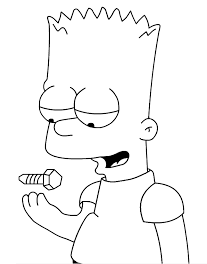
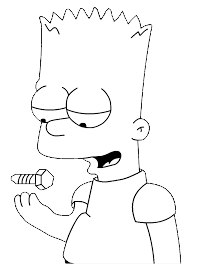
changes

Changed region(s): [[0.0302, 0.0, 0.9347, 1.0], [0.7839, 0.697, 0.8744, 0.7576]]

diff --git a/index.html b/index.html
@@ -1,24 +1,29 @@
 <!doctype html>
-<html lang="en">
+<html>
 <head>
 	<meta charset="UTF-8">
 	<title>UI/UX developer</title>
 	<link href='https://fonts.googleapis.com/css?family=PT+Sans:400,700,400italic' rel='stylesheet' type='text/css'>
 	<link href="styles.css" rel="stylesheet">
 </head>
+
 <body>
 
 	<div class="container">
 
 		<h1 class="h1">Hello world</h1>
+
 		<p class="p"> My name is Kiril and I like to craft nice things with <b>HTML/CSS/JS</b>.</p>
 		<p class="p"> At the moment I work at Adform as front-end developer in <b>UX/UI team</b>.</p>
 
-		<p class="p"> If you want to work together on some interesting projects, do not hesitate to write <a href="mailto:kiril.abashkin@gmail.com">me</a>.</p>
+		<p class="p"> If you want to work together on some interesting projects, do not hesitate to <a href="mailto:kiril.abashkin@gmail.com">write</a> me.</p>
 
 		<p class="p"> You can check my <a href="portfolio/?full#first">portfolio</a>.</p>
 
 	</div>
+	
 	<div class="stoner"></div>
+
 </body>
+
 </html>

diff --git a/styles.css b/styles.css
@@ -11,16 +11,17 @@ body {
 	background-repeat: no-repeat;
 	background-position: bottom right;
 	overflow: hidden;
-}
+	background-color:#E45252;
+	}
 
 .container {
 	padding:10px 40px;
-	width:300px;
-	background: #fff;
+	width:350px;
+	color: #fff;
 }
 
 .container .h1 {
-	font-size:50px;
+	font-size:70px;
 }
 
 .container .p {
@@ -28,13 +29,17 @@ body {
 	line-height: 1.5;
 }
 
+.container a {
+	color:#fff;
+}
+
 .stoner {
     position: absolute;
-    background: url('img/stoner.png');
+    background: url('img/bart.png');
     bottom: 0px;
     right: 50px;
     height: 264px;
-    width: 179px;
+    width: 185px;
     background-position: 0% 0%;
 }
 
